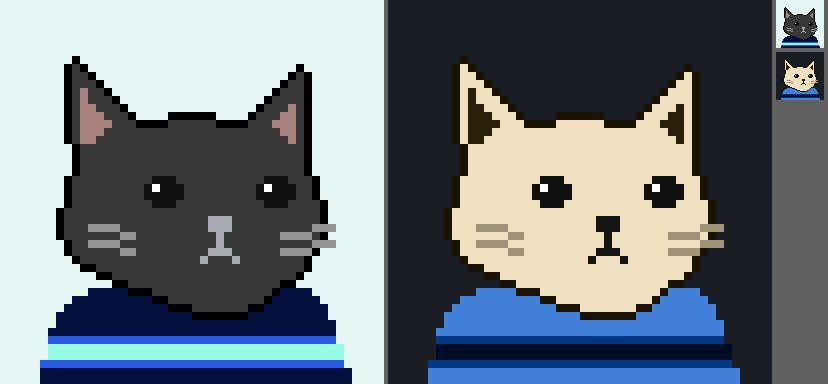
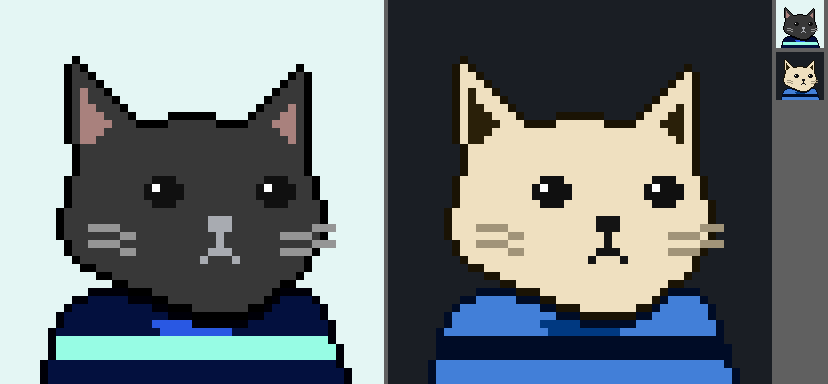
Outline the garments and stop the puffer reading as a rugby shirt
Clothing was the last thing worn that had no ink line, so a hoodie met the
background as a bare colour edge while the hat above it was outlined. Give the
clothing colourways an ink slot and run the torso through the same helper,
skipping the canvas floor so the bottom crop does not become a black bar.

Quilting is a recess, so the puffer's seams are ink rather than trim. Drawn in
trim they were three bright bands and the coat was indistinguishable from the
jersey next to it.

diff --git a/packages/hyper-identicons/src/art/colorways.ts b/packages/hyper-identicons/src/art/colorways.ts
@@ -72,18 +72,18 @@ export const COLORWAYS: Record<LayerId, Colorway[]> = {
   // detail in it at all. Deep fabric also stops at L 0.22 rather than 0.15 -- below
   // that there is not enough room above it to put a seam.
   clothing: [
-    { id: 'ink', name: 'Ink', tone: 'deep', weight: 22, colors: { a: '#13161B', b: '#606A77', c: '#8A939F', h: HYPER, w: '#FFFFFF' } },
-    { id: 'navy', name: 'Navy', tone: 'deep', weight: 18, colors: { a: '#03103E', b: '#2958E3', c: '#5B8BFF', h: HYPER, w: '#FFFFFF' } },
-    { id: 'oxblood', name: 'Oxblood', tone: 'deep', weight: 16, colors: { a: '#300204', b: '#BA2B2E', c: '#DF6862', h: HYPER, w: '#FFFFFF' } },
-    { id: 'pine', name: 'Pine', tone: 'deep', weight: 14, colors: { a: '#001D06', b: '#117E34', c: '#5AA667', h: HYPER, w: '#FFFFFF' } },
-    { id: 'aubergine', name: 'Aubergine', tone: 'deep', weight: 12, colors: { a: '#1F0634', b: '#853BC4', c: '#AB73E4', h: HYPER, w: '#FFFFFF' } },
-    { id: 'abyss', name: 'Abyss', tone: 'deep', weight: 8, colors: { a: '#001B17', b: '#007A6B', c: '#4AA494', h: HYPER, w: '#FFFFFF' } },
-    { id: 'cobalt', name: 'Cobalt', tone: 'bright', weight: 20, colors: { a: '#427FD8', b: '#003981', c: '#ABCDFF', h: '#000C26', w: '#FFFFFF' } },
-    { id: 'crimson', name: 'Crimson', tone: 'bright', weight: 18, colors: { a: '#D04F4B', b: '#78000E', c: '#FFB5AE', h: '#230001', w: '#FFFFFF' } },
-    { id: 'moss', name: 'Moss', tone: 'bright', weight: 16, colors: { a: '#2E9848', b: '#004B19', c: '#A3DBAA', h: '#001203', w: '#FFFFFF' } },
-    { id: 'gold', name: 'Gold', tone: 'bright', weight: 14, colors: { a: '#A77600', b: '#513800', c: '#E6C690', h: '#150B00', w: '#FFFFFF' } },
-    { id: 'violet', name: 'Violet', tone: 'bright', weight: 12, colors: { a: '#8967D7', b: '#462281', c: '#CEC0FF', h: '#12012C', w: '#FFFFFF' } },
-    { id: 'teal', name: 'Teal', tone: 'bright', weight: 10, colors: { a: '#009583', b: '#00483E', c: '#98DACC', h: '#00110E', w: '#FFFFFF' } },
+    { id: 'ink', name: 'Ink', tone: 'deep', weight: 22, colors: { a: '#13161B', b: '#606A77', c: '#8A939F', h: HYPER, w: '#FFFFFF', o: '#000102' } },
+    { id: 'navy', name: 'Navy', tone: 'deep', weight: 18, colors: { a: '#03103E', b: '#2958E3', c: '#5B8BFF', h: HYPER, w: '#FFFFFF', o: '#000008' } },
+    { id: 'oxblood', name: 'Oxblood', tone: 'deep', weight: 16, colors: { a: '#300204', b: '#BA2B2E', c: '#DF6862', h: HYPER, w: '#FFFFFF', o: '#030000' } },
+    { id: 'pine', name: 'Pine', tone: 'deep', weight: 14, colors: { a: '#001D06', b: '#117E34', c: '#5AA667', h: HYPER, w: '#FFFFFF', o: '#000100' } },
+    { id: 'aubergine', name: 'Aubergine', tone: 'deep', weight: 12, colors: { a: '#1F0634', b: '#853BC4', c: '#AB73E4', h: HYPER, w: '#FFFFFF', o: '#010004' } },
+    { id: 'abyss', name: 'Abyss', tone: 'deep', weight: 8, colors: { a: '#001B17', b: '#007A6B', c: '#4AA494', h: HYPER, w: '#FFFFFF', o: '#000101' } },
+    { id: 'cobalt', name: 'Cobalt', tone: 'bright', weight: 20, colors: { a: '#427FD8', b: '#003981', c: '#ABCDFF', h: '#000C26', w: '#FFFFFF', o: '#000C26' } },
+    { id: 'crimson', name: 'Crimson', tone: 'bright', weight: 18, colors: { a: '#D04F4B', b: '#78000E', c: '#FFB5AE', h: '#230001', w: '#FFFFFF', o: '#230001' } },
+    { id: 'moss', name: 'Moss', tone: 'bright', weight: 16, colors: { a: '#2E9848', b: '#004B19', c: '#A3DBAA', h: '#001203', w: '#FFFFFF', o: '#001203' } },
+    { id: 'gold', name: 'Gold', tone: 'bright', weight: 14, colors: { a: '#A77600', b: '#513800', c: '#E6C690', h: '#150B00', w: '#FFFFFF', o: '#150B00' } },
+    { id: 'violet', name: 'Violet', tone: 'bright', weight: 12, colors: { a: '#8967D7', b: '#462281', c: '#CEC0FF', h: '#12012C', w: '#FFFFFF', o: '#12012C' } },
+    { id: 'teal', name: 'Teal', tone: 'bright', weight: 10, colors: { a: '#009583', b: '#00483E', c: '#98DACC', h: '#00110E', w: '#FFFFFF', o: '#00110E' } },
   ],
   // The mouth is a line drawn straight onto the fur with nothing else to carry it,
   // so it takes the tone opposite the cat's: dark on a bright cat, light on a deep

diff --git a/packages/hyper-identicons/src/art/data/clothing.ts b/packages/hyper-identicons/src/art/data/clothing.ts
@@ -1,10 +1,10 @@
 // Generated by scripts/build-art.ts from art-source/clothing. Do not edit.
 export const clothing: Record<string, string> = {
[8 lines of base64/hex data omitted]
+  "tee": 'JAUMJwYABQETAAQBCQACAQUGAwEPAAEBBAYBAQcAAQEKBgIBDAABAQYGAQEFAAEBDQYDAQcAAgEHBgEBBQABARAGBwEKBgEBAwABASIGAQEDAAEBIgYBAQMAAQEjBgEBAgABASMGAQEBAAEBJAYBAQEAAQElBgIBJQYBAQ==',
+  "puffer": 'JAUMJwYABQETAAQBCQACAQUHAwEPAAEBBAcBAQcAAQEKBwIBDAABAQYHAQEFAAEBDQcDAQcAAgEHBwEBBQABARAGBwEKBgEBAwAkAQMAAQEiBgEBAwABASMGAQECACUBAQABASQGAQEBAAEBJQYoAQ==',
+  "jersey": 'JAUMJwYABQETAAQBCQACAQUGAwEPAAEBBAYBAQcAAQEKBgIBDAABAQYGAQEFAAEBDQYDAQcAAgEHBgEBBQABAQsGBQcHAQoGAQEDAAEBDQYJBwwGAQEDAAEBIgsBAQMAAQEjCwEBAgABASMLAQEBAAEBJAYBAQEAAQElBgIBJQYBAQ==',
[1 lines of base64/hex data omitted]
   "none": 'AAABAQEA',
 };

diff --git a/tools/make-traits.py b/tools/make-traits.py
@@ -137,7 +137,7 @@ def garment(extra=None, fill="a"):
                 keep.append((max(x0, chin[1] + 1), x1, ch))
         if keep:
             clipped[y] = keep
-    return clipped
+    return inked(clipped, floor=N - 1 - DROP)
 
 
 def subtract(runs, holes):
@@ -178,7 +178,7 @@ def hat(spans, ears=True):
     }
 
 
-def inked(spans, slot="o"):
+def inked(spans, slot="o", floor=None):
     """Ring a shape in its own outline, the way the body is.
 
     Without this a hat is a flat colour field pasted onto a cat that is drawn with
@@ -186,6 +186,10 @@ def inked(spans, slot="o"):
     of the picture rather than a thing the cat is wearing. Erodes inward, so the
     shape keeps the size it was authored at, and leaves interior detail alone --
     which means an explicitly placed 'o' stays put and can be used as a seam.
+
+    `floor` is the last row the canvas shows: past it there is no edge to draw,
+    only the bottom of the picture, and inking that puts a black bar under a
+    torso that is meant to run off the frame.
     """
     cells = {}
     for y, runs in spans.items():
@@ -194,7 +198,10 @@ def inked(spans, slot="o"):
                 cells[(y, x)] = ch
     out = {}
     for (y, x), ch in sorted(cells.items()):
-        edge = any((y + dy, x + dx) not in cells for dy, dx in ((1, 0), (-1, 0), (0, 1), (0, -1)))
+        edge = any(
+            (y + dy, x + dx) not in cells and not (floor is not None and y + dy > floor)
+            for dy, dx in ((1, 0), (-1, 0), (0, 1), (0, -1))
+        )
         out.setdefault(y, []).append((x, x, slot if edge else ch))
     return out
 
@@ -436,11 +443,14 @@ emit("clothing/hoodie.txt", garment({
     44: [(21, 21, "c"), (27, 27, "c")],
 }), "# Hoodie with drawstrings. Slots: a fabric, b collar, c cords.")
 
+# Quilting is a recess, so the seams are ink. Drawn in the trim slot they came out
+# as three bright stripes and the coat read as a rugby shirt.
 emit("clothing/puffer.txt", garment({
-    39: [(0, 47, "b")],
-    42: [(0, 47, "b")],
-    45: [(0, 47, "b")],
-}), "# Quilted puffer. Slots: a fabric, b seams.")
+    **COLLAR,
+    40: [(0, 47, "o")],
+    43: [(0, 47, "o")],
+    46: [(0, 47, "o")],
+}), "# Quilted puffer. Slots: a fabric, b collar, o seams.")
 
 # The V starts at row 39, the first row the chin has cleared. Above that the jaw
 # cuts the collar in half and the shirt comes out as two floating chips.
@@ -456,8 +466,9 @@ emit("clothing/suit.txt", garment({
 }), "# Suit with shirt and tie. Slots: a jacket, w shirt, h tie.")
 
 emit("clothing/jersey.txt", garment({
-    41: [(0, 47, "b")],
+    39: [(19, 29, "b")],
+    40: [(20, 28, "b")],
+    41: [(0, 47, "h")],
     42: [(0, 47, "h")],
     43: [(0, 47, "h")],
-    44: [(0, 47, "b")],
-}), "# Banded jersey. Slots: a fabric, b trim, h band.")
+}), "# Banded jersey. Slots: a fabric, b neck, h band.")
